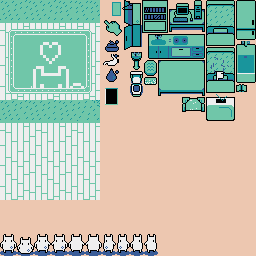
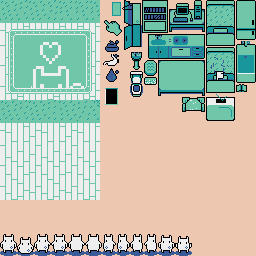
Added idle animations

Changed region(s): [[0.5938, 0.9062, 0.75, 1.0]]

diff --git a/core/animation.py b/core/animation.py
@@ -2,6 +2,7 @@
 This module holds the classes required to manage game animations
 """
 from itertools import cycle
+from random import randint
 from core.asset_manager import Assets
 
 
@@ -10,7 +11,7 @@ class Animation:
 
     def __init__(self):
         # idle frame
-        self.idle = Assets.IDLE
+        self.idling = [Assets.IDLE_0, Assets.IDLE_1, Assets.IDLE_2, Assets.IDLE_1]
 
         # setup walk animations
         self.walk_left_frame = [Assets.WALK_LEFT_1, Assets.WALK_LEFT_2]
@@ -18,27 +19,32 @@ class Animation:
         self.walk_up_frame = [Assets.WALK_UP_1, Assets.WALK_UP_2]
         self.walk_down_frame = [Assets.WALK_DOWN_1, Assets.WALK_DOWN_2]
 
+        # cycle between index 0 and 1 for idle frames and keep track of last index
+        self.idle_frame_index = [cycle(sorted([0, 1, 2, 3] * 4)), 0]
+
         # cycle between index 0 and 1 for walk frames
-        self.frame_index = cycle(sorted([0, 1] * 3))
+        self.walk_frame_index = cycle(sorted([0, 1] * 3))
 
     def get_idle_animation(self) -> dict:
         """
-        TODO: create multiple idle animations
-        :return: return the correct idle animation frame
+        :return: return the correct idle frame with random idling based on randint range output and last index
         """
-        return self.idle
+        if self.idle_frame_index[1] == 0 and randint(0, 100) < 90:
+            return self.idling[self.idle_frame_index[1]]
+        self.idle_frame_index[1] = next(self.idle_frame_index[0])
+        return self.idling[self.idle_frame_index[1]]
 
     def get_walk_animation(self, direction: int) -> dict:
         """
-        :param direction: 0:left, 1:right, 2:up, 3:down
+        :param direction: -1:idle, 0:left, 1:right, 2:up, 3:down
         :return: return the correct walk animation frame
         """
         if direction == 0:
-            return self.walk_left_frame[next(self.frame_index)]
+            return self.walk_left_frame[next(self.walk_frame_index)]
         if direction == 1:
-            return self.walk_right_frame[next(self.frame_index)]
+            return self.walk_right_frame[next(self.walk_frame_index)]
         if direction == 2:
-            return self.walk_up_frame[next(self.frame_index)]
+            return self.walk_up_frame[next(self.walk_frame_index)]
         if direction == 3:
-            return self.walk_down_frame[next(self.frame_index)]
-        return self.idle
+            return self.walk_down_frame[next(self.walk_frame_index)]
+        return self.get_idle_animation()

diff --git a/core/asset_manager.py b/core/asset_manager.py
@@ -22,7 +22,9 @@ class Assets(dict):
     WINDOW = {'x': 44, 'y': 3, 'img': 0, 'u': 182, 'v': 97, 'w': 23, 'h': 15, 'colkey': 15}
 
     # character
-    IDLE = {'img': 0, 'u': 0, 'v': 234, 'w': 17, 'h': 22, 'colkey': 15}
+    IDLE_0 = {'img': 0, 'u': 0, 'v': 234, 'w': 17, 'h': 22, 'colkey': 15}
+    IDLE_1 = {'img': 0, 'u': 158, 'v': 234, 'w': 17, 'h': 22, 'colkey': 15}
+    IDLE_2 = {'img': 0, 'u': 175, 'v': 234, 'w': 17, 'h': 22, 'colkey': 15}
     SIT = {'img': 0, 'u': 17, 'v': 237, 'w': 17, 'h': 19, 'colkey': 15}
     WALK_DOWN_1 = {'img': 0, 'u': 34, 'v': 234, 'w': 17, 'h': 22, 'colkey': 15}
     WALK_DOWN_2 = {'img': 0, 'u': 51, 'v': 234, 'w': 17, 'h': 22, 'colkey': 15}
